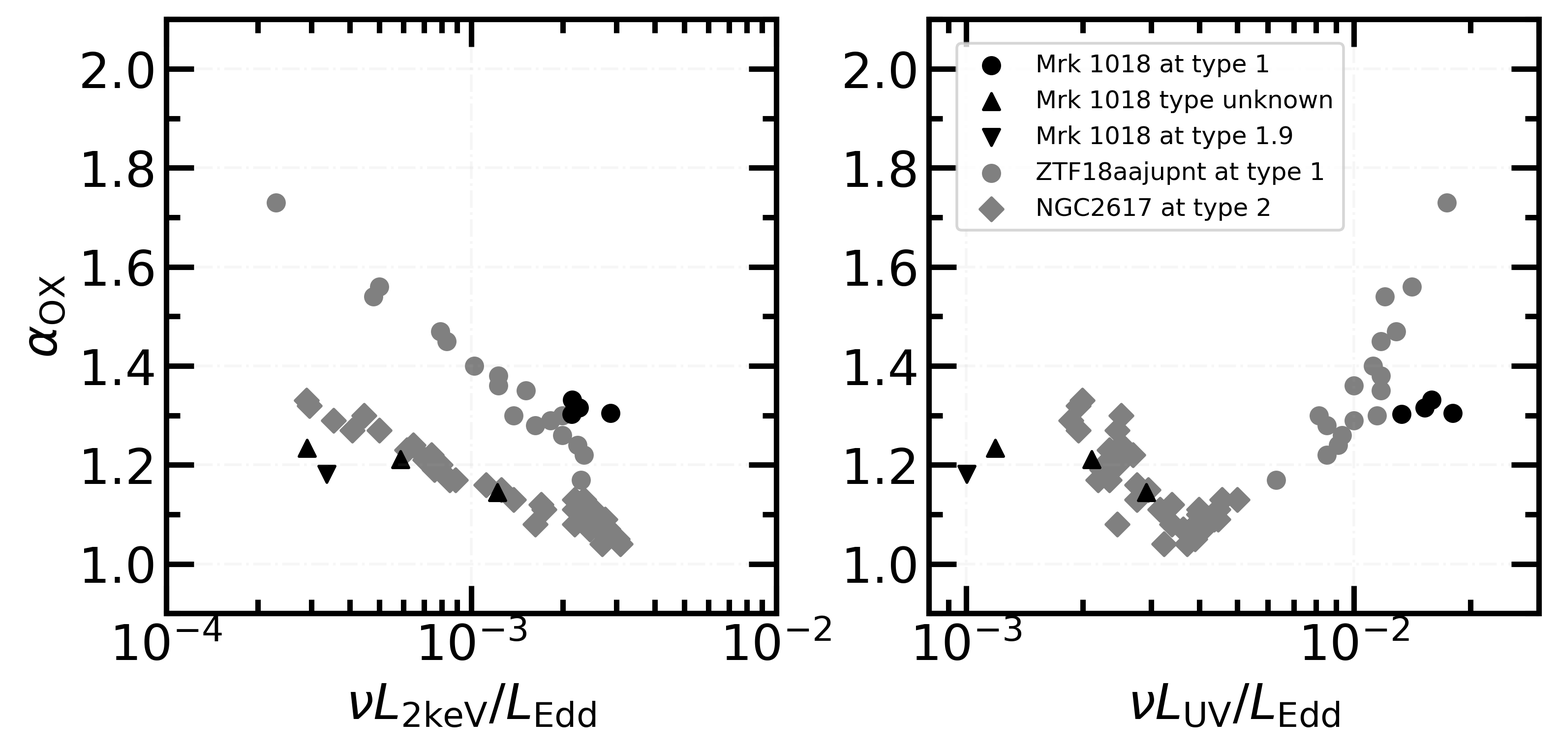
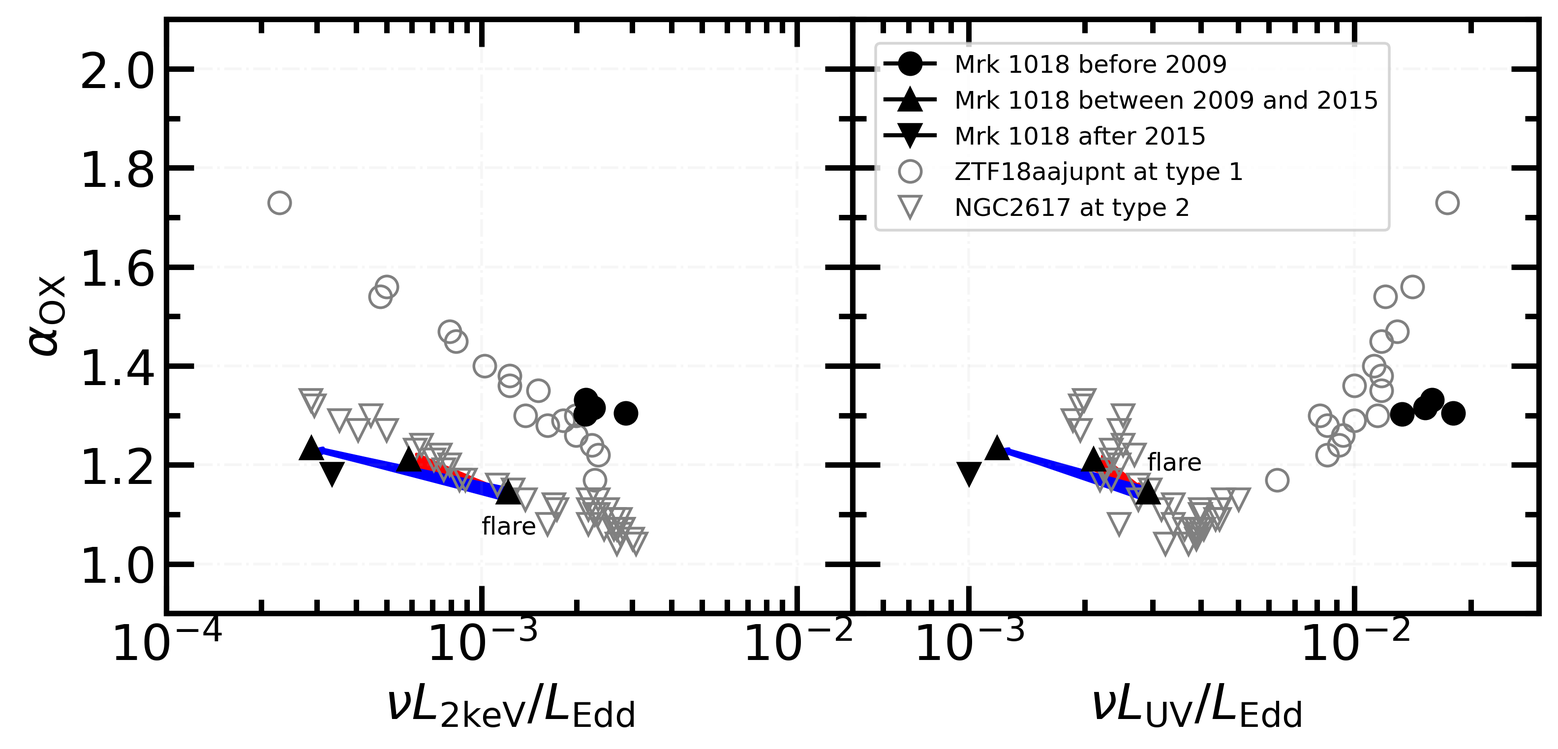
1129

diff --git a/main.tex b/main.tex
@@ -320,7 +320,7 @@ Wuhan, 430074, China \\}
 
 %% Mark off the abstract in the ``abstract'' environment. 
 \begin{abstract}
-We present the multi-wavelength and long-term variability of a Changing-Look active galactic nucleus (CL-AGN) Mrk~1018, which was previously found to change from type 1 to 1.9 between 2009 and 2015. There was a rapid decay of X-ray and UV flux during the type change, while the e-folding decay timescale is $\sim$ 800--1200 days.  We find a re-brightening flare within 98 days during the decay, during which the UV vs. X-ray flux follows evident positive correlation. We find that the spectral photon index ($\Gamma$) vs. the Eddington scaled X-ray luminosity ($L_\mathrm{2-10~ keV}/L_\mathrm{Edd}$) roughly follows a ``V-shape'' correlation that $\Gamma$-$L_\mathrm{2-10~ keV}/L_\mathrm{Edd}$ follows negative/positive correlation below/above the critical Eddington ratio $L_\mathrm{bol}/L_\mathrm{Edd}\sim$1\%. We find the source transited between the positive branch and the negative branch in the $\Gamma$-$L_\mathrm{2-10~ keV}/L_\mathrm{Edd}$ correlation during the re-brightening flare. We also find the fractional variability $\sim$ 23\% in X-ray band and $\sim$ 6\% in UV band on timescale of days when Mrk~1018 is at faint state during 2018. The scaled luminosity at frequency of 5 GHz in radio band declines by $\sim$ 20\%, and the radio spectral index becomes flat as the bolometric luminosity declines by around one order of magnitude during the type change. The timescale $\sim$ 98 days of the re-brightening flare without tracing the clockwise ``V-shape'' route is more consistent with the thermal timescale. We need further simultaneous optical spectroscopic and UV/X-ray observations to reveal the relation between AGN type and spectral state indicated by ``V-shape'' spectral evolution.
+We present the multi-wavelength and long-term variability of a Changing-Look active galactic nucleus (CL-AGN) Mrk~1018, which was previously found to change from type 1 to 1.9 between 2009 and 2015. There was a rapid decay of X-ray and UV flux during the type change, while the e-folding decay timescale is $\sim$ 800--1200 days.  We find a re-brightening flare within 98 days during the decay, during which the UV vs. X-ray flux follows evident positive correlation. We find that the spectral photon index ($\Gamma$) vs. the Eddington scaled X-ray luminosity ($L_\mathrm{2-10~ keV}/L_\mathrm{Edd}$) roughly follows a ``V-shape'' correlation that $\Gamma$-$L_\mathrm{2-10~ keV}/L_\mathrm{Edd}$ follows negative/positive correlation below/above the critical Eddington ratio $L_\mathrm{bol}/L_\mathrm{Edd}\sim$1\%. We find the source transited between the positive branch and the negative branch in the $\Gamma$-$L_\mathrm{2-10~ keV}/L_\mathrm{Edd}$ correlation during the re-brightening flare. We also find the fractional variability $\sim$ 23\% in X-ray band and $\sim$ 6\% in UV band on timescale of days when Mrk~1018 is at faint state during 2018. The scaled luminosity at frequency of 5 GHz in radio band declines by $\sim$ 20\%, and the radio spectral index becomes flat as the bolometric luminosity declines by around one order of magnitude during the type change. The timescale $\sim$ 98 days of the re-brightening flare without tracing the clockwise ``V-shape'' route is more consistent with the thermal timescale derived from the standard thin accretion disk. We require further simultaneous observations in optical and UV/X-ray band to understand the relation between AGN type and spectral state indicated by ``V-shape'' spectral evolution.
 
 
 \end{abstract}
@@ -357,17 +357,16 @@ Recently, more and more AGNs have been discovered to change their source classif
 %{MacLeod2016,Ruan2016,Stern2018,MacLeod2019,Graham2020} 
 which show disappearance/appearance of broad emission lines \citep[e.g.][]{2016MNRAS.457..389M,2019MNRAS.486..123R}. Many of them also show dramatic flux variability in optical/ultraviolet and/or X-ray \citep[e.g.][]{2016MNRAS.461.1927P,2017ApJ...846L...7S,2019MNRAS.483L..88P}. According to the traditional AGN unification model, the type changes should be related with the obscuration by the torus. The partially covering or variable absorber could interpret the rapid flux and spectral variability in some sources \citep[e.g.][]{2013MNRAS.436.1615M,2014MNRAS.443.2862A,2015ApJ...815...55R,2018MNRAS.481.2470T}. However, the disappearance/appearance of broad emission lines might associate with the dimming/re-brightening of activity of the nuclei in some CL-AGNs \citep[e.g.][]{2014ApJ...796..134D,2018MNRAS.480.3898N,2019ApJ...885...44D}. The extreme variability of ratio of power-law and black-body component could also link to the inner most region of accreting CL-AGNs \citep[e.g.][]{2019ApJ...883...94T,2020ApJ...898L...1R}. Besides, there is increasing evidence with multi-wavelength observations showing that the type changes in some CL-AGNs are driven by the activity of the central engine. The radio emission shows consistent variation with optical-UV and X-ray luminosity in some CL-AGNs \citep[e.g.][]{2016MNRAS.460..304K}. The large variability in mid-infrared band for some CL-AGNs \citep[e.g.][]{2017ApJ...846L...7S,2018ApJ...864...27S} does not support the variable obscuration scenario, where the variation timescales and amplitudes in optical and X-ray band are also not compatible \citep[e.g.][]{2020ApJ...890L..29A}. Therefore, investigating the multi-wavelength observations of CL-AGNs is important for us to reveal the changing-look behavior and the inherent physical mechanism.
 
-In this work, we perform an extensive data analysis to study the luminosity and spectral evolution of a CL-AGN, Mrk~1018, in X-ray, optical/ultraviolet and radio bands. Mrk~1018 at $z=0.042436$ has undergone a full cycle with twice type transition. The type of Mrk~1018 transits from S1.9 to S1 between 1979 and 1984 \citep{1986ApJ...311..135C} and returns to S1.9 at 2015 after 30 years as a S1 \citep[see also][]{2016A&A...593L...8M,2016A&A...593L...9H,2017A&A...607L...9K}. There is rapid variability in X-ray and optical band during recent type transition period. Between 2010 and 2016, the optical continuum brightness and X-ray flux drops by a factor of $\sim$ 17 and $\sim$ 8 \citep{2016A&A...593L...9H}, respectively, with no intrinsic absorption in the X-ray spectrum detected. The last time for Mrk~1018 at type 1 with optical spectroscopic confirmation is in 2009 January. So in this paper, we refer the period during 1984--2009 as the type 1 AGN phase and the period after 2015 as the type 2 AGN phase. The period between 2009 and 2015 is referred as changing-look phase. Observations in different wavelengths have covered the time before and after the changing-look event, making it an ideal target for changing-look behavior and activity of the central engine. This paper is structured as follows: In \autoref{sec:data}, we describe the observations and the data reduction in X-ray, optical/ultraviolet and radio bands. In \autoref{sec:result}, we present multi-wavelength observation results. Finally, in \autoref{sec:discussion}, we discuss possible explanations for the observations of Mrk~1018. Hereafter, we adopt $H_0$=70 km s$^{-1}$ Mpc $^{-1}$, $\Omega_{m}$=0.27, and $\Omega_{\Lambda}=0.73 $ as cosmological parameters, luminosity distance at 176 Mpc and the black hole (BH) mass measurement $\log(M_{\rm{BH}}/M_{\odot})=7.84$ \citep{2017MNRAS.472.3492E,2018MNRAS.480.3898N}. 
+In this work, we perform an extensive data analysis to study the luminosity and spectral evolution of a CL-AGN, Mrk~1018, in X-ray, optical/ultraviolet and radio bands. Mrk~1018 at $z=0.042436$ has undergone a full cycle with twice type transition during the past 40 years. The type of Mrk~1018 transits from S1.9 to S1 between 1979 and 1984 \citep{1986ApJ...311..135C} and returns to S1.9 at 2015 after 30 years as a S1 \citep[see also][]{2016A&A...593L...8M,2016A&A...593L...9H,2017A&A...607L...9K}. There is rapid variability in X-ray and optical band during recent type transition period. Between 2010 and 2016, the optical continuum brightness and X-ray flux drops by a factor of $\sim$ 17 and $\sim$ 8 \citep{2016A&A...593L...9H}, respectively, with no intrinsic absorption in the X-ray spectrum detected. The last time for Mrk~1018 at type 1 with optical spectroscopic confirmation is in 2009 January. So in this paper, we refer the period during 1984--2009 as the type 1 AGN phase and the period after 2015 as the type 2 AGN phase. The period between 2009 and 2015 is referred as changing-look phase. Observations in different wavelengths have covered the time before and after the changing-look event, making it an ideal target for changing-look behavior and activity of the central engine. This paper is structured as follows: In \autoref{sec:data}, we describe the observations and the data reduction in X-ray, optical/ultraviolet and radio bands. In \autoref{sec:result}, we present multi-wavelength observation results. Finally, in \autoref{sec:discussion}, we discuss possible explanations for the observations of Mrk~1018. Hereafter, we adopt $H_0$=70 km s$^{-1}$ Mpc $^{-1}$, $\Omega_{m}$=0.27, and $\Omega_{\Lambda}=0.73 $ as cosmological parameters, luminosity distance at 176 Mpc and the black hole (BH) mass measurement $\log(M_{\rm{BH}}/M_{\odot})=7.84$ \citep{2017MNRAS.472.3492E,2018MNRAS.480.3898N}. 
 %\clearpage
 
 
 \section{Data Reduction and Analysis}\label{sec:data}
-\subsection{X-ray}
-We analyse all the public archival data of \swift, \xmm, \chandra ~and \nustar during 2005--2019. During the X-ray spectral fitting, we only adopt the absorption by the Galactic neutral hydrogen \citep[$N_{\rm{HI,Gal}}$=0.0243$\times10^{22}$cm$^{-2}$,][]{2005A&A...440..775K} 
-while the intrinsic absorption is negligible \citep[see][]{2016A&A...593L...9H}. The 2--10~keV fluxes are calculated by {\it cflux} component within {\scriptsize XSPEC} (v12.10). All the X-ray observation information and best-fitting parameters including photon index ($\Gamma$, hereafter), unabsorbed flux in 2--10~keV ($F_{\rm{2-10~keV}}$) are listed in \autoref{tab:tablexray}. The long term X-ray light curve in 2--10~keV is shown in the top panel of \autoref{fig:multi-lc-secondaxis}.
+\subsection{X-ray data reduction}
+We analyse all the public archival data of \swift, \xmm, \chandra ~and \nustar during the period between 2005 and 2019. During the X-ray spectral fitting, we only adopt the absorption by the Galactic neutral hydrogen \citep[$N_{\rm{HI,Gal}}$=0.0243$\times10^{22}$cm$^{-2}$,][]{2005A&A...440..775K} and the intrinsic absorption is taken as negligible \citep[see][]{2016A&A...593L...9H}. The 2--10~keV fluxes are calculated by {\it cflux} component within {\scriptsize XSPEC} (v12.10). All the X-ray observation information and best-fitting parameters including photon index ($\Gamma$, hereafter), unabsorbed flux in 2--10~keV ($F_{\rm{2-10~keV}}$) are listed in \autoref{tab:tablexray}. The long term X-ray light curve in 2--10~keV is shown in the top panel of \autoref{fig:multi-lc-secondaxis}.
 
 
-\subsubsection{\xrt}
+\subsubsection{\xrt\,data reduction}
 \label{data-xrt}
 The X-Ray Telescope (XRT) on board the \swift\, satellite has the most high-cadence monitoring in X-ray band of Mrk~1018. We process all the archive data of \xrt\, observations performed in photon counting mode with {\scriptsize XRTPIPELINE}\footnote{\url{http://swift.asdc.asi.it}}. The source region is a circle centered at the nucleus of Mrk 1018, the radius of which is determined by the count rate of each observation according to \citet{2009MNRAS.397.1177E}. We use {\scriptsize XSELECT} to extract the source and background spectra. When the counts of an XRT spectrum is less than 200, we use C-stat method for fitting with minimum one count per bin. Otherwise, the spectrum is grouped by minimum of 20 counts per bin and fitted with Chi-stat method. All the XRT spectra of Mrk~1018 in 0.5--10~keV range are fitted with an absorbed power-law model. Here we only adopt well fitted data with 0.7$\le \chi^2_\mathrm{reduced} \le$1.5 for \swift/XRT observations. 
 
@@ -377,22 +376,22 @@ The X-Ray Telescope (XRT) on board the \swift\, satellite has the most high-cade
 
 
 
-\subsubsection{\chandra/ACIS-S}
+\subsubsection{\chandra/ACIS-S data reduction}
 %There has recently been 10 Chandra observations released in archive. 
 We extract all the ACIS-S spectra with CIAO (v4.12) \footnote{\url{http://cxc.harvard.edu/ciao/threads/index.html}} and {\scriptsize CALDB} (v4.9.1).  For the observation in 2010 (ObsID 12868),the pile-up effect should be carefully taken into account. There are some different results due to different treatments on the pile-up effect \citep[see ][]{2016A&A...593L...9H,2017ApJ...840...11L,2017A&A...607L...9K}. Here we adopt the results from \citet{2016A&A...593L...9H} which excluded the bright pixels and  corrected the photon loss for this observation. While other observations are not affected by the pile-up, the source spectrum is extracted from a 3$\arcsec$ radius circle and the background spectrum is extracted from an annulus with 5$\arcsec$ inner radius and 15$\arcsec$ outer radius, which follows \citet{2017ApJ...840...11L}. Then all the spectra in 0.5--8~keV range are grouped by minimum of 20 counts per bin and fitted with an absorbed power-law model. 
 
 
 
-\subsubsection{\xmm/EPIC-PN}
+\subsubsection{\xmm/EPIC-PN data reduction}
 There are four \xmm \, observations on Mrk~1018, only 2 of them have been released so far, which are in 2005 (ObsID 201090201) and 2008 (ObsID 554920301), respectively. We reprocess the PN data with {\scriptsize EPPROC} in \texttt{SAS-16.1.0}\footnote{\url{https://www.cosmos.esa.int/web/xmm-newton}}. The source and background region are a 40$''$ and 60$''$ radius circle, respectively, which follows \citet{2018MNRAS.480.3898N}. Each spectrum is grouped by minimum of 30 counts per bin and fitted in the 2--10~keV range with an absorbed power-law model. 
 
 
 
-\subsubsection{\nustar}
+\subsubsection{\nustar\, data reduction}
 There are 5 public observations of \nustar in the archive, which are processed through the {\scriptsize NUPIPELINE} task of the {\scriptsize NUSTARDAS} package. The source region is a 50$''$ radius circle at the center of AGN, and background is extracted from region off source. The spectrum is grouped by minimum of 30 counts per bin and fitted in the 3--79~keV range with an absorbed power-law model.
 
 
-\subsection{Optical/ultraviolet}
+\subsection{Optical/ultraviolet data reduction}
 \subsubsection{\uvot}
 \label{sec:uvot}
 There are six filters in optical/ultraviolet band of \uvot: V, B, U, UVW1, UVM2 and UVW2. We use the tool \textit{uvotsource} to do the aperture photometry for each filter of all the observations. The source aperture radius is 5$\arcsec$ and the background is chosen in a blank region with much larger aperture radius. The UVOT fluxes are corrected for the Galactic extinction with \texttt{redden} $E(B-V) = 0.03645$ \citep[see ][]{2018MNRAS.480.3898N} and $R_{V}=3.1$. Then we calculate  $A_{\lambda}$ by using extinction curve from \citet{2007ApJ...663..320F} for U, UVW1, UVM2, and 
@@ -406,12 +405,12 @@ UVW2 band with values 0.18, 0.25, 0.35 and 0.31, respectively. According to the 
 %($A_V=$ 0.075 and $R_{V}=3.1$)
 
 
-\subsection{Radio}
+\subsection{Radio data reduction}
 \label{subsec:vla}
 %\subsubsection{VLA}
 We retrieve all the historical VLA observations on Mrk~1018 and analyse the data with \textsc{casa} version 5.3.0 \citep{2007ASPC..376..127M}. For reduction of the old VLA data (project AU0020, AB0476, AB0540 and AB0878), we manually flag and calibrate the data, then clean the image following the instruction\footnote{\url{https://casaguides.nrao.edu/index.php/VLA_5_GHz_continuum_survey_of_Seyfert_galaxies}}. For all the JVLA data (project 16A-444, 16B-084 and 18B-245), calibrations are performed using script {EVLA\_pipeline1.4.2}\footnote{\url{https://science.nrao.edu/facilities/vla/data-processing/pipeline/scripted-pipeline}}. Different bands are split into different MS files after pipeline calibration and RFI check. Then source is imaged using {\scriptsize TCLEAN} method and integrated flux is estimated via \textsc{imfit} task. The flux density uncertainty is calculated as $\sigma_\mathrm{S}=\sqrt{(rms)^2+(0.05\times S)^2}$, where $5 \%$ absolute flux error is taken into account, except for the quick look image result in epoch 1 of  {\em VLA Sky Survey (VLASS1.1)}, where $15 \%$ system error is considered according to the {\em VLASS Epoch 1 Quick Look Users Guide} \footnote{\url{https://science.nrao.edu/science/surveys/vlass/vlass-epoch-1-quick-look-users-guide}}. We estimate the radio spectral index $\alpha$ defined as $S_v \propto v^{-\alpha}$ when the cross-band observation is performed simultaneously or within certain interval. For example, $\alpha_\mathrm{L-C} =0.52 \pm 0.07$ with observation at MJD 46032 (L and C band), $\alpha_\mathrm{L-X} =0.3 \pm 0.07$ with observation at MJD 50970 (X band) and 50219 (L band) are estimated when Mrk~1018 is at type 1 AGN phase. So we adopt $\alpha=0.3$ as the radio spectral index between MJD 49820 and 56660 since the flux density in L and C band varied little during this period. When Mrk~1018 is at type 2 AGN phase, $\alpha_\mathrm{C} =0.33\pm0.21$, $\alpha_\mathrm{C-X} =0.25\pm0.1$ and $\alpha_\mathrm{C-K} =0.03\pm0.05$ with observation at MJD 57481 (C, X and K band) are also estimated separately. For data after MJD 57719, we find nearly flat radio spectrum, so we adopt $\alpha=0$ for this period. Then flux are re-scaled to 5 GHz with $\alpha$ estimated.  All results include the survey data in FIRST\citep{1994ASPC...61..165B,1995ApJ...450..559B} and Stripe 82\citep{2011AJ....142....3H} from archival papers are listed in Table.~\ref{tab:tableradio}. The radio image shows no distinct extended structure within source size 1.21$''$ $\times$ 0.77 $''$ when Mrk~1018 is observed at the most extensive A configuration of VLA, which corresponds to $\sim$1 kpc-scale radio emission region.
 
-\subsection{Broad-band spectrum of \swift}
+\subsection{Broad-band spectra with \swift\, data}
 \label{swift-sed}
 
 In order to roughly estimate the bolometric luminosity, we use the absorbed \texttt{optxagnf} plus S0-type host galaxy
@@ -497,9 +496,9 @@ Radio flux in L and C band of Mrk~1018 keeps almost constant within errors durin
 We use the simultaneous \xrt\, and \uvot\, data between MJD 53587 and 57430 to analyse the relation between X-ray and UV luminosity. The X-ray luminosity at 2 keV $L_\mathrm{{2\,keV}}$ shows a positive correlation with the UV luminosity $L_\mathrm{{UV}}$ during the changing-look phase (see \autoref{fig:correlation-Luvot-L2keV}). During the re-flare from MJD 56352 to 56450, the flux in U, UVW1, UVM2 and UVW2 band increases by a factor of 1.16, 1.38, 1.18 and 1.52, which is much smaller than the variability mentioned above in X-ray band, making the re-flare an outlier (more than 2$\sigma$ deviation) in the $L_\mathrm{{2\,keV}}$-$L_\mathrm{{UV}}$ correlation. So we exclude the outlier and re-fit the correlation parameterised as log $ L_\mathrm{{2\,keV}}$=$\gamma$ log $ L_\mathrm{{UV}}$+$\beta$. The slope $\gamma$ are 1.03, 0.74, 0.66 and 0.63, respectively. The Spearman correlation coefficients between simultaneous luminosity of \xrt\, and four \uvot\, band(U, UVW1, UVM2 and UVW2) are 0.99, 0.93, 0.90 and 0.89 (p-values are 1.4e-24, 2.5e-3, 0.037 and 0.018), respectively. But there is no evident correlation of X-ray/UV flux during the faint type 2 AGN phase.
 
 \subsection{``V-shape'' X-ray spectrum and rapid transitions}
-The so-called ``V-shape'' in $\Gamma$-$L_\mathrm{2-10\,keV}/L_\mathrm{Edd}$ correlation, which shows distinct negative/positive correlation with the Eddington scaled X-ray luminosity $L_\mathrm{2-10~ keV}/L_\mathrm{Edd}$ below/above the critical value ($\sim$0.001), has been found in both AGNs and BH XRBs \citep[e.g.][]{2011A&A...530A.149Y,2015MNRAS.447.1692Y}. For Mrk~1018, we also plot the $\Gamma$-$L_\mathrm{2-10\,keV}/L_\mathrm{Edd}$ correlation, which shows evident negative correlation when $L_\mathrm{2-10\,keV}/L_\mathrm{Edd}$ is below the critical value. The positive correlation is less significant when $L_\mathrm{2-10\,keV}/L_\mathrm{Edd}$ is above the critical value since the data are limited. The data of Mrk~1018 roughly follow the two best-fitting lines with $\Gamma$= 1.05$\times$log$L_\mathrm{2-10~ keV}/L_\mathrm{Edd}$ +4.26 and $\Gamma$= -1.15$\times$log$L_\mathrm{2-10~ keV}/L_\mathrm{Edd}$ -1.98 when the data are divided into right and left branch based on luminosity. The Spearman correlation coefficient between photon index and X-ray Eddington rate is 0.2 and -0.57 (p-values are 0.58 and 4.3e-6) in right and left branches. We get similar results with slopes equal to 1.45 and -1.14 at positive and negative branch when fitting with a piecewise linear regression (see \autoref{fig:xrayappendgood-fandg-tmap}) and derive that the critical value for log$L_\mathrm{2-10~ keV}/L_\mathrm{Edd}$ is $\sim$ -2.81, which corresponds to $L_\mathrm{bol}/L_\mathrm{Edd}\sim$1\% according to \autoref{Lbol-LX}. The best-fitting results in \citet{2015MNRAS.447.1692Y} are also included for comparison (see \autoref{fig:xrayappendgood-Lrateandg-tmap}). For a sample of AGNs, the critical value of log$L_\mathrm{2-10~ keV}/L_\mathrm{Edd}$= -3 is close to our individual case, but the slopes (0.31 and -0.1) of positive and negative branch are much smaller. 
+The so-called ``V-shape'' in $\Gamma$-$L_\mathrm{2-10\,keV}/L_\mathrm{Edd}$ correlation, which shows distinct negative/positive correlation with the Eddington scaled X-ray luminosity $L_\mathrm{2-10~ keV}/L_\mathrm{Edd}$ below/above the critical value ($\sim$0.001), has been found in both AGNs and BH XRBs \citep[e.g.][]{2011A&A...530A.149Y,2015MNRAS.447.1692Y}. For Mrk~1018, we also plot the $\Gamma$-$L_\mathrm{2-10\,keV}/L_\mathrm{Edd}$ correlation, which shows evident negative correlation when $L_\mathrm{2-10\,keV}/L_\mathrm{Edd}$ is below the critical value. The positive correlation is less significant when $L_\mathrm{2-10\,keV}/L_\mathrm{Edd}$ is above the critical value since the data are limited. The data of Mrk~1018 roughly follow the two best-fitting lines with $\Gamma$= 1.05$\times$log$L_\mathrm{2-10~ keV}/L_\mathrm{Edd}$ +4.26 and $\Gamma$= -1.15$\times$log$L_\mathrm{2-10~ keV}/L_\mathrm{Edd}$ -1.98 when the data are divided into right and left branch based on luminosity. The Spearman correlation coefficient between photon index and X-ray Eddington rate is 0.2 and -0.57 (p-values are 0.58 and 4.3e-6) in right and left branches. We get similar results with slopes equal to 1.45 and -1.14 at positive and negative branch when fitting with a piecewise linear regression (see \autoref{fig:xrayappendgood-Lrateandg-tmap}) and derive that the critical value for log$L_\mathrm{2-10~ keV}/L_\mathrm{Edd}$ is $\sim$ -2.81, which corresponds to $L_\mathrm{bol}/L_\mathrm{Edd}\sim$1\% according to \autoref{Lbol-LX}. The best-fitting results in \citet{2015MNRAS.447.1692Y} are also included for comparison (see \autoref{fig:xrayappendgood-Lrateandg-tmap}). For a sample of AGNs, the critical value of log$L_\mathrm{2-10~ keV}/L_\mathrm{Edd}$= -3 is close to our individual case, but the slopes (0.31 and -0.1) of positive and negative branch are much smaller. 
 
-Most of data on the positive branch roughly correspond to the type 1 AGN phase, while data on the negative branch roughly corresponds to the type 2 AGN phase assuming that Mrk~1018 is at type 1 before 2009 and at type 2 after 2015. However, we find the transitions between two branches during the re-flare (see \autoref{fig:xrayappendgood-fandg-tmap} and \autoref{fig:xrayappendgood-Lrateandg-tmap}). The X-ray flux increases by a factor $\sim3$ from MJD 56352 to 56450, while $\Gamma$ drops from $\sim1.8$ to $\sim1.4$, making it transiting from negative branch to the positive branch, and then returning back to the negative branch on MJD 56817 when the X-ray flux decreases by a factor of $\sim$4.2, and $\Gamma$ does not vary within errors. But the optical spectroscopic type confirmation during the re-flare is absent.
+Most of data on the positive branch roughly correspond to the type 1 AGN phase, while data on the negative branch roughly corresponds to the type 2 AGN phase assuming that Mrk~1018 is at type 1 before 2009 and at type 2 after 2015. However, we find the transitions between two branches during the re-flare (see \autoref{fig:xrayappendgood-Lrateandg-tmap} and \autoref{fig:xrayappendgood-Lrateandg-tmap}). The X-ray flux increases by a factor $\sim3$ from MJD 56352 to 56450, while $\Gamma$ drops from $\sim1.8$ to $\sim1.4$, making it transiting from negative branch to the positive branch, and then returning back to the negative branch on MJD 56817 when the X-ray flux decreases by a factor of $\sim$4.2, and $\Gamma$ does not vary within errors. But the optical spectroscopic type confirmation during the re-flare is absent.
 
 %$\Gamma$ could be more efficiently regulated by the change of luminosity in individual source.
 
@@ -552,7 +551,7 @@ It is also found that  \alphaox\, is positively correlated with the luminosity i
 \subsection{Long and short-term characteristic timescale}
 We derive three characteristic timescales when Mrk~1018 transited from type 1 to type 1.9 with rapid dimming of luminosity. The UV/optical and X-ray luminosity roughly decrease by a factor of 7.5 and 17.5 within 10 years. The corresponding exponential decay timescale is $\sim$ 800--1200 days for UV/X-ray band from 2009 to 2015. Besides, we find the re-flare timescale for Mrk~1018 as short as 98 days. Such re-brightening within several tens to hundreds of days is also found in some other CL-AGNs \citep[e.g.][]{2017MNRAS.467.1496O,2020MNRAS.498..718O}. According to the high-cadence monitoring observations, we also find that the X-ray luminosity vary dramatically on timescale of tens of days (see \autoref{sec:multi-lc}) at type 1.9 AGN phase. What mechanisms drive such long and short-term flux variations are still uncertain. The flux variations of AGNs on different time scales and different wavelengths have been studied for a long time \citep[see reviews in ][]{1997ARA&A..35..445U}. A damped random walk (DRW) process provides a good description of AGN variabilities on timescales of days to years \citep[e.g.][]{2010ApJ...721.1014M,2011ApJ...730...52K}, which could be driven by the variations in the magnetic field of the accretion flow \citep{2004MNRAS.348..111K,2006MNRAS.368..379M,2007A&A...466..793J}. \citet{2004MNRAS.348..111K} has demonstrated that the model can produce small flux fluctuations and also stochastic large flares. It seems to be a promising explanation for the long and short variability of CL-AGNs like Mrk~1018. 
 
-As we discuss in \autoref{sec:spectral evolution}, the critical luminosity for accretion mode changes is roughly in the range $L_\mathrm{bol}/L_\mathrm{Edd}\sim10^{-3}-10^{-2}$. If the AGN type transitions indeed associates with the accretion mode changes, the AGNs at the luminosity level of $L_\mathrm{bol}/L_\mathrm{Edd}\sim10^{-3}-10^{-2}$ would be the candidates of changing-look AGNs, since the stochastic variation can easily make the luminosity above/below the critical luminosity to change the accretion mode. \citet{2018MNRAS.480.3898N} has made an analogy between the broad band spectral evolution of Mrk~1018 and the soft-to-hard state transition during the decay phase of transient BHBs. However, the decay timescale is still an issue for this analogy, since the decay timescale of an outburst of transient BHB corresponds to the viscous timescale of outer accretion disk. Scaling to a $10^{8}M_{\odot}$ BH, the viscous timescale at typical outer disk radius of $R_\mathrm{disk}\sim 10^5\, R_g$ is roughly ten million years \citep{2012MmSAI..83..469L,2018MNRAS.475.1190Y}, which is much longer than characteristic decay timescale we get in Mrk~1018.  \citet{2018ApJ...861...51K} consider the tidal impulse effect within a recoiling-SMBH scenario to explain the long-term variability. The impulse make influence on the density perturbation of accretion disk with the sound crossing timescale $\tau_\mathrm{s}$ is given as
+As we discuss in \autoref{sec:spectral evolution}, the critical luminosity for accretion mode changes is roughly in the range $L_\mathrm{bol}/L_\mathrm{Edd}\sim10^{-3}-10^{-2}$. If the AGN type transitions indeed associates with the accretion mode changes, the AGNs at the luminosity level of $L_\mathrm{bol}/L_\mathrm{Edd}\sim10^{-3}-10^{-2}$ would be the candidates of changing-look AGNs, since the stochastic variation can easily make the luminosity above/below the critical luminosity to change the accretion mode. \citet{2018MNRAS.480.3898N} has made an analogy between the broad band spectral evolution of Mrk~1018 and the soft-to-hard state transition during the decay phase of transient BHBs. However, the decay timescale is still an issue for this analogy, since the decay timescale of an outburst of transient BHB corresponds to the viscous timescale of outer accretion disk. Scaling to a $10^{8}M_{\odot}$ BH, the viscous timescale at typical outer disk radius of $R_\mathrm{disk}$ around hundreds of $R_g$ is roughly one million years \citep{2012MmSAI..83..469L,2018MNRAS.475.1190Y}, which is much longer than characteristic decay timescale we get in Mrk~1018.  \citet{2018ApJ...861...51K} consider the tidal impulse effect within a recoiling-SMBH scenario to explain the long-term variability. The impulse make influence on the density perturbation of accretion disk on the sound crossing timescale $\tau_\mathrm{s}$,which is given as
 \begin{equation}
 \tau_\mathrm{s}= 0.07 (\frac{M_\mathrm{BH}}{10^8M_{\odot}})(\frac{R_d}{R_g}) (\frac{T}{10^5 K})^{-1/2} \, \mathrm{years}
 \end{equation}
@@ -584,6 +583,10 @@ There is a common non-linear correlation between the radio and X-ray luminosity 
 
 People usually use the radio luminosity at 5 GHz and the 2--10 keV X-ray luminosity to investigate the R-X correlation. In order to keep consistent with previous literature, we use the radio spectral index $\alpha_R$ to calculate the monochromatic radio luminosity at 5 GHz (see the details in \autoref{subsec:vla}). The radio luminosity at 5 GHz only varies within $\sim$40\%, while the X-ray luminosity varies roughly one order of magnitude during the same time interval from MJD 53587 to 58430 (see \autoref{fig:multi-lc-secondaxis}). We plot the radio luminosity and the nearest X-ray luminosity (interval $\le$ 100 days, see \autoref{tab:radio_xray}) correlation in \autoref{fig:radio-xray-mass_relation_Plotkin2012} and the best-fitting result of a sample of black holes in \citet{2012MNRAS.419..267P} with flat/inverted radio spectra index and sub-Eddington luminosity. Our current data show that Mrk 1018 apparently does not follow the standard $L_\mathrm{R}\propto L_\mathrm{X}^{0.6}$ correlation. It roughly follows a flat R-X correlation at the range of $L_\mathrm{X}/L_\mathrm{Edd}$ $\sim$ 3$\times 10^{-4}$-- 4$\times 10^{-3}$ , which is similar to the flat part of the ``hybrid" correlation in BH XRBs ( $L_\mathrm{bol}/L_\mathrm{Edd} \sim$ $10^{-3}$-$10^{-2}$) \citep[see e.g.][]{2018MNRAS.473.4122E,2020ApJ...891...31X}. We also superimpose the data of Mrk~590 from \citet[][]{2016MNRAS.460..304K} onto the plot since they share many similarities as CL-AGN. Both of them show type change from type 1 to type 1.9/2 within years. The ratio of radio and X-ray luminosity log$L_R/L_X$ is $\sim$ -5 to -4 for Mrk~1018 and Mrk~590. The latter is considered to be accreting in a radiatively inefficient mode of low/hard state since Mrk~590 well follows the fundamental plane defined in a sample of low/hard state galactic black holes plus LINERs \citep[see discussion in ][]{2016MNRAS.460..304K}. Two sources both show the tendency to be flatter of the radio spectrum index ($\alpha_R$) and several tens percent of decline in radio flux as the bolometric luminosity declines by around an order of magnitude. Besides, systematic distributional difference of $\alpha_R$ also exists in radio quiet AGN of different types \citep[e.g.][]{2019MNRAS.485.3185C} and black hole binaries in hard state \citep[see][]{2018MNRAS.473.4122E}. The evolution/distribution of $\alpha_R$ provides another link between stellar-mass black holes and AGNs, but raises more questions about origin of radio emission in different types of black holes. 
 
+\section{Conclusion}\label{sec:conclusion}
+We 
+
+
 
 
 \acknowledgments
@@ -604,6 +607,15 @@ We thank Chris Done for her friendly help with the usage of host galaxy model, a
           }
 %%
 
+\begin{figure*}
+\centering
+	% To include a figure from a file named example.*
+	% Allowable file formats are eps or ps if compiling using latex
+	% or pdf, png, jpg if compiling using pdflatex
+	\includegraphics[width=0.6\textwidth]{./pic/Mrk1018_LxvsLBol_fit.png}
+    \caption{$L_\mathrm{2-10\,keV}/L_\mathrm{Edd}$ vs. $L_\mathrm{bol}/L_\mathrm{Edd}$. $L_\mathrm{bol}$ is estimated based on the model of \texttt{phabs*redden*(optxagnf+hostpol)}.}
+    \label{fig:xray-bol}
+\end{figure*}
 
 \begin{figure*}
 \centering
@@ -611,31 +623,22 @@ We thank Chris Done for her friendly help with the usage of host galaxy model, a
 	% Allowable file formats are eps or ps if compiling using latex
 	% or pdf, png, jpg if compiling using pdflatex
 	\includegraphics[width=0.6\textwidth]{./pic/Mrk1018_L2_Luvot_correlation-fig-without-outlier_clip.png}
-    \caption{$L_\mathrm{UV}$ vs. $L_\mathrm{2\,keV}$ during 2005 and 2016. We clip the outlier data points in blank marker. }
+    \caption{$L_\mathrm{UV}$ vs. $L_\mathrm{2\,keV}$ during 2005 and 2016.}
     \label{fig:correlation-Luvot-L2keV}
 \end{figure*}
 
-\begin{figure*}
-\centering
-	% To include a figure from a file named example.*
-	% Allowable file formats are eps or ps if compiling using latex
-	% or pdf, png, jpg if compiling using pdflatex
-	\includegraphics[width=0.6\textwidth]{./pic/Mrk1018_LxvsLBol_fit.png}
-    \caption{$L_\mathrm{2-10\,keV}/L_\mathrm{Edd}$ vs. $L_\mathrm{bol}/L_\mathrm{Edd}$ for Mrk~1018. $L_\mathrm{bol}$ is estimated based on the model of \texttt{phabs*redden*(optxagnf+hostpol)}. Markers in circle, triangle and inverted-triangle represent that Mrk~1018 is at type 1, unknown, and type 1.9 state.}
-    \label{fig:xray-bol}
-\end{figure*}
-
-
 
 \begin{figure*}
 \centering
 	% To include a figure from a file named example.*
 	% Allowable file formats are eps or ps if compiling using latex
 	% or pdf, png, jpg if compiling using pdflatex
-	\includegraphics[width=0.9\textwidth]{./pic/Mrk1018_subplots_plus_alpha_ox_logLbol_rate.png}
-    \caption{\alphaox\, vs. $L_\mathrm{bol}/L_\mathrm{Edd}$ correlation for Mrk~1018 in comparison with other samples or best-fitting result such as low-luminosity Active Galactic Nuclei in \citet[][]{2011ApJ...739...64X}, type 1 AGN in \citet{2010A&A...512A..34L}, soft X-Ray selected Active Galactic Nuclei in \citet[][]{2010ApJS..187...64G} and Changing-look quasars in \citet[][]{2019ApJ...883...76R}. }
-    \label{fig:alphaox-bol}
+	\includegraphics[width=0.7\textwidth]{./pic/xrayappendgood-errorbar-Lrate-g-tmap.png}
+    \caption{$\Gamma$ vs. $L_\mathrm{2-10\,keV}/L_\mathrm{Edd}$ with best fitting shown in the broken straight line. The critical value of log$L_\mathrm{2-10\,keV}/L_\mathrm{Edd}$ is $\sim$ -2.81. The broken dashed line represents the results from \citet{2015MNRAS.447.1692Y} with critical value log$L_\mathrm{2-10\,keV}/L_\mathrm{Edd}$ $\sim$ -3. We find a re-flare while Mrk~1018 transited from the left branch to the right branch of $\Gamma$-flux correlation in $\sim$ 98 days and returns to the left branch in $\sim$ 368 days, which are shown in red and blue arrows.}
+    \label{fig:xrayappendgood-Lrateandg-tmap}
 \end{figure*}
+
+
 
 
 \begin{figure*}
@@ -653,22 +656,10 @@ We thank Chris Done for her friendly help with the usage of host galaxy model, a
 	% To include a figure from a file named example.*
 	% Allowable file formats are eps or ps if compiling using latex
 	% or pdf, png, jpg if compiling using pdflatex
-	\includegraphics[width=0.7\textwidth]{./pic/xrayappendgood-errorbar-f-g-tmap.png}
-    \caption{$\Gamma$ vs. $L_\mathrm{2-10\,keV}$ for Mrk~1018. There is an apparent spectral evolution with time. We find a re-flare which transits from left branch to right branch of $\Gamma$-flux correlation in $\sim$ 98 days and returns to left branch in $\sim$ 368 days. }
-    \label{fig:xrayappendgood-fandg-tmap}
+	\includegraphics[width=0.9\textwidth]{./pic/Mrk1018_subplots_plus_alpha_ox_logLbol_rate.png}
+    \caption{\alphaox\, vs. $L_\mathrm{bol}/L_\mathrm{Edd}$ correlation for Mrk~1018 in comparison with other samples or best-fitting result such as low-luminosity Active Galactic Nuclei in \citet[][]{2011ApJ...739...64X}, type 1 AGN in \citet{2010A&A...512A..34L}, soft X-Ray selected Active Galactic Nuclei in \citet[][]{2010ApJS..187...64G} and Changing-look quasars in \citet[][]{2019ApJ...883...76R}. }
+    \label{fig:alphaox-bol}
 \end{figure*}
-
-\begin{figure*}
-\centering
-	% To include a figure from a file named example.*
-	% Allowable file formats are eps or ps if compiling using latex
-	% or pdf, png, jpg if compiling using pdflatex
-	\includegraphics[width=0.7\textwidth]{./pic/xrayappendgood-errorbar-Lrate-g-tmap_brokenlinear_dot.png}
-    \caption{$\Gamma$ vs. $L_\mathrm{2-10\,keV}/L_\mathrm{Edd}$ with best fitting shown in the broken straight line. The critical value of log$L_\mathrm{2-10\,keV}/L_\mathrm{Edd}$ is $\sim$ -2.81. The broken dashed line represents the results from \citet{2015MNRAS.447.1692Y} with critical value log$L_\mathrm{2-10\,keV}/L_\mathrm{Edd}$ $\sim$ -3. }
-    \label{fig:xrayappendgood-Lrateandg-tmap}
-\end{figure*}
-
-
 
 
 
@@ -697,7 +688,7 @@ We thank Chris Done for her friendly help with the usage of host galaxy model, a
 	% Allowable file formats are eps or ps if compiling using latex
 	% or pdf, png, jpg if compiling using pdflatex
 	\includegraphics[width=0.6\textwidth]{./pic/Mrk1018_Mrk590_radio_xray_Plotkin2012_Lx.png}
-    \caption{Mrk~1018's radio and X-ray luminosity correlation relative to fundamental plane defined in \citet{2012MNRAS.419..267P} shown in grey straight line with intrinsic $\sigma=0.07$. We add the data of Mrk~590 from Table~5 in \citet{2016MNRAS.460..304K} for comparison.} 
+    \caption{Mrk~1018's radio and X-ray luminosity correlation relative to fundamental plane defined in \citet{2012MNRAS.419..267P} shown in dashed line with intrinsic $\sigma=0.07$. We add the data of Mrk~590 from Table~5 in \citet{2016MNRAS.460..304K} for comparison.} 
     \label{fig:radio-xray-mass_relation_Plotkin2012}
 \end{figure*}
 
